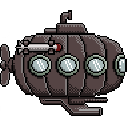
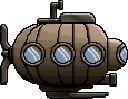
Nye bilder, fullscreen
- Erstattet den gamle submarine med en ny. Den gamle var en jeg fant på
nettet, mens den nye har jeg laget selv.
- La til fullscreen
- Bobblene har mer naturlig bevegelse
- Bakgrunnen er endret.
- Animasjonens forandrer fart avhengig av spillerens fart.

diff --git a/src/application.py b/src/application.py
@@ -17,7 +17,10 @@ class Application:
         
         pygame.init()
         self.fpsClock = pygame.time.Clock()
-        self.windowSurfaceObj = pygame.display.set_mode((self.width, self.height))
+        if fullscreen():
+            self.windowSurfaceObj = pygame.display.set_mode((self.width, self.height), pygame.FULLSCREEN)
+        else:
+            self.windowSurfaceObj = pygame.display.set_mode((self.width, self.height))
         pygame.display.set_caption('Anim')
         
         self.entityList = []
@@ -75,9 +78,9 @@ class Application:
         self.player.event(self.events)
         for i in range(0, self.bubbleCount):
             self.bubbleListFront[i].event(self.events)
-            self.bubbleListFront[i].dirVector.setX(-self.player.getXSpeed())
+            self.bubbleListFront[i].setXSpeedFromPlayer(-self.player.getXSpeed())
             self.bubbleListBack[i].event(self.events)
-            self.bubbleListBack[i].dirVector.setX(-self.player.getXSpeed())
+            self.bubbleListBack[i].setXSpeedFromPlayer(-self.player.getXSpeed())
             
     def render(self):
         #Background

diff --git a/src/bubble.py b/src/bubble.py
@@ -14,12 +14,13 @@ class Bubble(Entity):
         super(Bubble, self).__init__()
         self.xPos = randint(0,getWidth())
         self.yPos = randint(0,getHeight())
+        self.front = front
         if front:
-            self.dirVector.setX(random())
-            self.dirVector.setY(-random())
+            self.xSpeed = (random() - 0.5)
+            self.dirVector.setY(-random() - 0.5)
         else:
-            self.dirVector.setX(random()/2)
-            self.dirVector.setY(-random()/2)
+            self.xSpeed = (random() - 0.5) / 2
+            self.dirVector.setY(random() / 2 - 0.25)
 
     def event(self, event):
         super(Bubble, self).event(event)
@@ -35,3 +36,9 @@ class Bubble(Entity):
         if self.yPos > getHeight():
             self.yPos = -16
             self.xPos = randint(0,getWidth())
+
+    def setXSpeedFromPlayer(self, input):
+        if self.front:
+            self.dirVector.setX(self.xSpeed + input)
+        else:
+            self.dirVector.setX(self.xSpeed + input / 2)

diff --git a/src/background.py b/src/background.py
@@ -6,8 +6,8 @@ class Background(Entity):
     def __init__(self):
         self.imageNames = ["res/background.png"]
         super(Background, self).__init__()
-        self.surfaceObjects[0] = pygame.transform.scale(self.surfaceObjects[0], (int(self.width * 4), int(self.height * 4)))
-        self.yPos = -128
+        self.surfaceObjects[0] = pygame.transform.scale(self.surfaceObjects[0], (int((self.width/self.height)*getHeight()), int(getHeight())))
+        self.yPos = 0
         self.xPos = 0
     def event(self, event):
         super(Background, self).event(event)

diff --git a/src/entity.py b/src/entity.py
@@ -33,7 +33,7 @@ class Entity(object):
         self.dirVector.yPos= self.yPos + self.height/2
 
     def render(self, surface, drawVector=False):
-        surface.blit(self.surfaceObjects[(self.renderCount)/self.ticksBeforeAnimSwitch%len(self.imageNames)], (self.xPos,self.yPos))
+        surface.blit(self.surfaceObjects[int((self.renderCount)/self.ticksBeforeAnimSwitch%len(self.imageNames))], (self.xPos,self.yPos))
         self.renderCount += 1
         if drawVector:
             self.dirVector.render(surface)

diff --git a/src/player.py b/src/player.py
@@ -79,7 +79,8 @@ class Player(Entity):
     def event(self, event):
         self.key(event)
         self.movement(event)
-        self.xMove()                       
+        self.xMove()
+        self.ticksBeforeAnimSwitch = 36 - int(self.getXSpeed()) * 8
         super(Player, self).event(event)
 
     def render(self, surface, drawVector=False):
@@ -89,7 +90,5 @@ class Player(Entity):
         
     def getXSpeed(self):
         return self.xSpeed
-
-
 
 

diff --git a/src/globals.py b/src/globals.py
@@ -1,6 +1,8 @@
 def getWidth():
     return 640
 def getHeight():
-    return 400
+    return 480
 def getFPS():
     return 60
+def fullscreen():
+    return True
